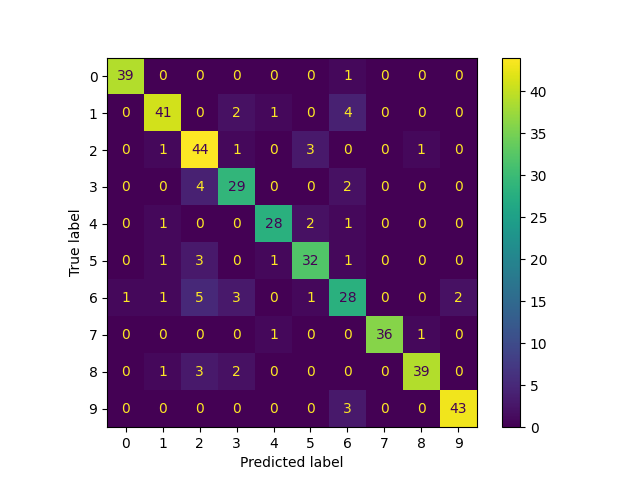
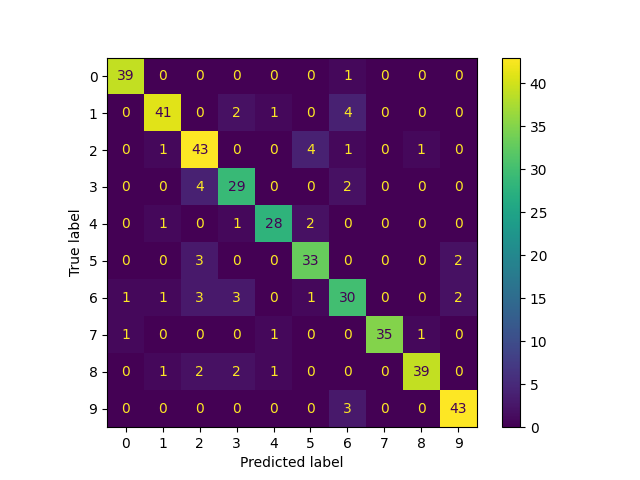
small changes

diff --git a/Assignment 2/nn_classification_sklearn.py b/Assignment 2/nn_classification_sklearn.py
@@ -49,11 +49,8 @@ def train_nn(X_train: np.ndarray, y_train: np.ndarray) -> MLPClassifier:
     # TODO: Train MLPClassifier with different number of neurons in one hidden layer.
     #       Print the train accuracy, validation accuracy, and the training loss for each configuration.
     #       Return the MLPClassifier that you consider to be the best.
-    mlp_model_best = None
+
     num_hidden = [2, 10, 100, 200, 500]
-    train_accuracy = []
-    validation_accuracy = []
-    training_loss = []
     all_models = []
 
     for n_hidden in num_hidden:
@@ -66,35 +63,27 @@ def train_nn(X_train: np.ndarray, y_train: np.ndarray) -> MLPClassifier:
         prediction_validation = mlp_model.predict(X_val)
 
         count = 0
-
         for prediction, ground_true in zip(prediction_train, y_train):
             if prediction == ground_true:
                 count = count + 1
 
         accuracy_train = count / len(y_train)
-        train_accuracy.append(accuracy_train)
 
         count = 0
         for prediction, ground_true in zip(prediction_validation, y_val):
             if prediction == ground_true:
                 count = count + 1
 
-        accuracy_validation = count / len(y_train)
-        validation_accuracy.append(accuracy_validation)
+        accuracy_validation = count / len(y_val)
 
-        training_loss.append(mlp_model.loss_)
         all_models.append(mlp_model)
 
-        print(f'train accuracy: {accuracy_train}')
-        print(f'validation accuracy: {accuracy_validation}')
-        print(f'training loss: {mlp_model.loss_}')
+        print(f'Train accuracy: {accuracy_train}')
+        print(f'Validation accuracy: {accuracy_validation}')
+        print(f'Training loss: {mlp_model.loss_}')
+        print(f'Training loss: {mlp_model.loss_}')
 
-    index_validation = np.argmax(validation_accuracy)
-    index_training = np.argmin(training_loss)
-
-    if index_validation == index_training:
-        print(index_validation)
-        mlp_model_best = all_models[index_validation]
+    mlp_model_best = all_models[4]
 
     return mlp_model_best
 
@@ -117,20 +106,18 @@ def train_nn_with_regularization(X_train: np.ndarray, y_train: np.ndarray) -> ML
     regulasization = [[0.1, None],
                       [None, True],
                       [0.1, True]]
-    train_accuracy = []
-    validation_accuracy = []
-    training_loss = []
+    all_models = []
 
     for n_hidden in num_hidden:
         for i in range(3):
             if i == 0:
-                print(f'The number of neurons in one hidden layer: {n_hidden}, regularization alpha: {regulasization[i][0]}')
+                print(f'The number of neurons in one hidden layer: {n_hidden}, alpha: {regulasization[i][0]}')
                 mlp_model = MLPClassifier(solver='adam', max_iter=500, random_state=1, hidden_layer_sizes=n_hidden, alpha=regulasization[i][0])
             elif i == 1:
-                print(f'The number of neurons in one hidden layer: {n_hidden}, regularization early_stopping: {regulasization[i][1]}')
+                print(f'The number of neurons in one hidden layer: {n_hidden}, early_stopping: {regulasization[i][1]}')
                 mlp_model = MLPClassifier(solver='adam', max_iter=500, random_state=1, hidden_layer_sizes=n_hidden,early_stopping=regulasization[i][1])
             elif i == 2:
-                print(f'The number of neurons in one hidden layer: {n_hidden}, regularization alpha: {regulasization[i][0]}, regularization early_stopping: {regulasization[i][1]}')
+                print(f'The number of neurons in one hidden layer: {n_hidden}, alpha: {regulasization[i][0]}, early_stopping: {regulasization[i][1]}')
                 mlp_model = MLPClassifier(solver='adam', max_iter=500, random_state=1, hidden_layer_sizes=n_hidden,
                                           early_stopping=regulasization[i][1], alpha=regulasization[i][0])
             mlp_model.fit(X_train, y_train)
@@ -139,29 +126,27 @@ def train_nn_with_regularization(X_train: np.ndarray, y_train: np.ndarray) -> ML
             prediction_validation = mlp_model.predict(X_val)
 
             count = 0
-
             for prediction, ground_true in zip(prediction_train, y_train):
                 if prediction == ground_true:
                     count = count + 1
 
             accuracy_train = count / len(y_train)
-            train_accuracy.append(accuracy_train)
 
             count = 0
             for prediction, ground_true in zip(prediction_validation, y_val):
                 if prediction == ground_true:
                     count = count + 1
 
-            accuracy_validation = count / len(y_train)
-            validation_accuracy.append(accuracy_validation)
+            accuracy_validation = count / len(y_val)
 
-            training_loss.append(mlp_model.loss_)
+            all_models.append(mlp_model)
 
-            print(f'train accuracy: {accuracy_train}')
-            print(f'validation accuracy: {accuracy_validation}')
-            print(f'training loss: {mlp_model.loss_}')
+            print(f'Train accuracy: {round(accuracy_train, 5)}')
+            print(f'Validation accuracy: {round(accuracy_validation, 5)}')
+            print(f'Training loss: {round(mlp_model.loss_, 5)}')
 
-    return None
+
+    return all_models[12]
 
 
 def plot_training_loss_curve(nn: MLPClassifier) -> None:
@@ -194,6 +179,10 @@ def show_confusion_matrix_and_classification_report(nn: MLPClassifier, X_test: n
     #       Use `classification_report` to print the classification report.
 
     model_prediction = nn.predict(X_test)
+
+    test_accuracy = nn.score(X_test, y_test)
+    print(f'Test accuracy: {round(test_accuracy, 5)}')
+
     cf_matrix = confusion_matrix(y_test, model_prediction)
     cd_display = ConfusionMatrixDisplay(confusion_matrix=cf_matrix, display_labels=nn.classes_)
     cd_display.plot()

diff --git a/Assignment 2/main.py b/Assignment 2/main.py
@@ -20,22 +20,22 @@ def task_1():
     # PCA
     # Task 1.1.1
     print("----- Task 1.1.1 -----")
-    n_components = 330 # TODO: Choose the number of components such that 95% of the variance is retained
+    n_components = 340 # TODO: Choose the number of components such that 95% of the variance is retained
     X_train_pca, pca = reduce_dimension(X_train, n_components)
     print(X_train_pca.shape)
-    #
-    # # Task 1.1.2
-    # print("----- Task 1.1.2 -----")
-    # best_nn = train_nn(X_train_pca, y_train)
-    #
-    # # Task 1.1.3 needs no code, only explanations in the report
-    #
-    # # # Task 1.1.4
-    # # print("----- Task 1.1.4 -----")
-    # # best_reg_nn = train_nn_with_regularization(X_train_pca, y_train)
-    #
-    # best_model_task_1_1 = best_nn # TODO: Choose the best model from the previous Tasks
-    # plot_training_loss_curve(best_model_task_1_1)
+
+    # Task 1.1.2
+    print("----- Task 1.1.2 -----")
+    best_nn = train_nn(X_train_pca, y_train)
+
+    # Task 1.1.3 needs no code, only explanations in the report
+
+    # # Task 1.1.4
+    print("----- Task 1.1.4 -----")
+    best_reg_nn = train_nn_with_regularization(X_train_pca, y_train)
+
+    best_model_task_1_1 = best_reg_nn # TODO: Choose the best model from the previous Tasks
+    plot_training_loss_curve(best_model_task_1_1)
 
     # # Task 1.2
     print("----- Task 1.2 -----")
